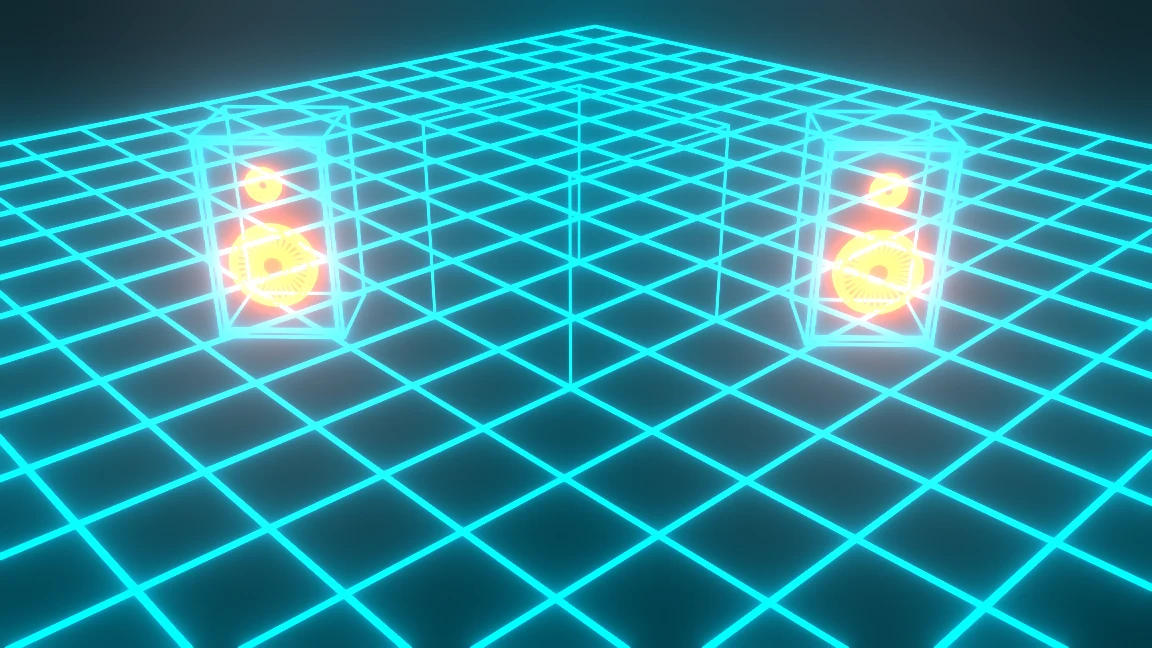
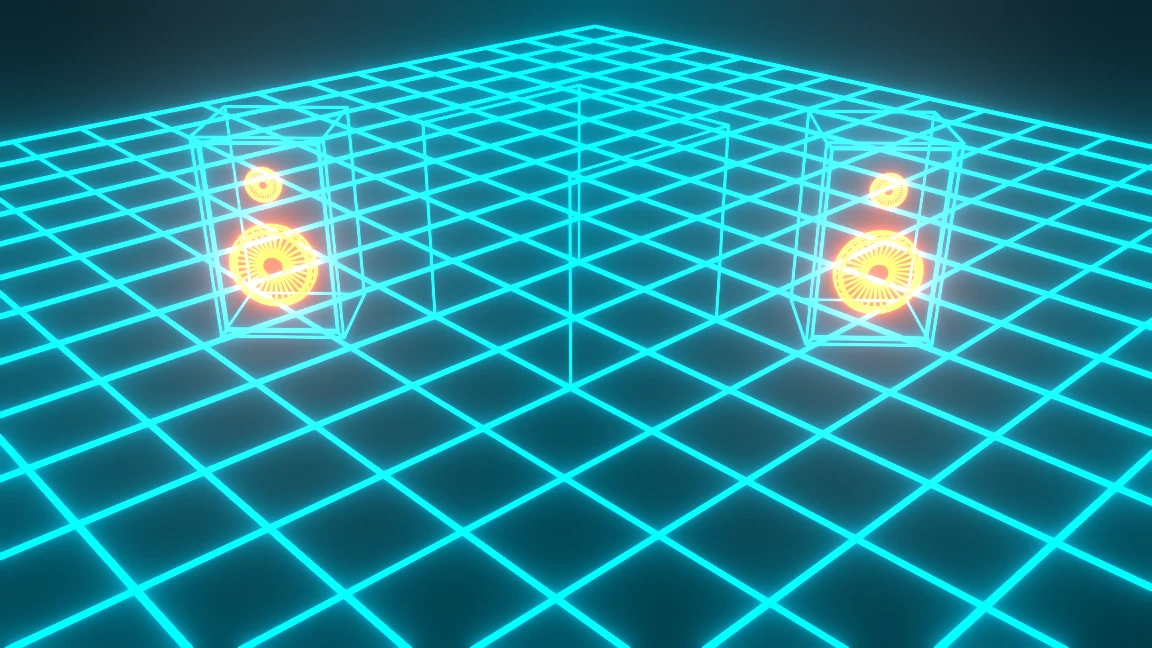
Pill tools: clean leftover neon materials; speaker scene can be rebuilt without images

Changed region(s): [[0.625, 0.1543, 0.875, 0.6173], [0.125, 0.1543, 0.3438, 0.6173]]

diff --git a/tools/pills/speaker/render_all.py b/tools/pills/speaker/render_all.py
@@ -61,6 +61,8 @@ class Shots:
 
     def solid(self, view, edit=None):
         """A Solid viewport image; `edit` is the object in Edit Mode, if any."""
+        if self.out is None:  # rebuilding the scene for a later pill
+            return
         sc = self.sc
         self.n += 1
         saved = (sc.render.engine, sc.render.resolution_x, sc.render.resolution_y,
@@ -88,6 +90,8 @@ class Shots:
 
     def rendered(self):
         """Rendered through the scene camera (EEVEE, compositor with the bloom)."""
+        if self.out is None:
+            return
         sc = self.sc
         self.n += 1
         sc.camera = self.scene_cam
@@ -254,9 +258,11 @@ def build(out):
     # 11. Rendered through the camera.
     sh.rendered()
 
-    with open(os.path.join(out, "frames.json"), "w", encoding="utf-8") as fh:
-        json.dump(sh.frames, fh, separators=(",", ":"))
-    return {"scene": s, "speakers": (box, woofer, tweeter)}
+    if out is not None:
+        with open(os.path.join(out, "frames.json"), "w", encoding="utf-8") as fh:
+            json.dump(sh.frames, fh, separators=(",", ":"))
+    return {"scene": s, "cube": made["cube"], "grid": made["grid"], "glare": made["glare"],
+            "speakers": (box, woofer, tweeter, box2)}
 
 
 def main(here=HERE, out=None):

diff --git a/tools/pills/neon/render_all.py b/tools/pills/neon/render_all.py
@@ -35,6 +35,15 @@ class Scene:
         self.sc = bpy.data.scenes.get("PillNeon") or bpy.data.scenes.new("PillNeon")
         for o in list(self.sc.objects):
             bpy.data.objects.remove(o)
+        # Materials of earlier runs ("Neó cian", "Neó taronja.001"...) would take the names and
+        # be picked by Browse Material in the later pills.
+        ours = lambda m: m is not None and m.name.startswith("Neó ")
+        for me in list(bpy.data.meshes):
+            if me.users == 0 and any(ours(m) for m in me.materials):
+                bpy.data.meshes.remove(me)
+        for m in list(bpy.data.materials):
+            if m.users == 0 and ours(m):
+                bpy.data.materials.remove(m)
         self.sc.compositing_node_group = None
         self.win.scene = self.sc
         self.area = next(a for a in self.win.screen.areas if a.type == "VIEW_3D")
